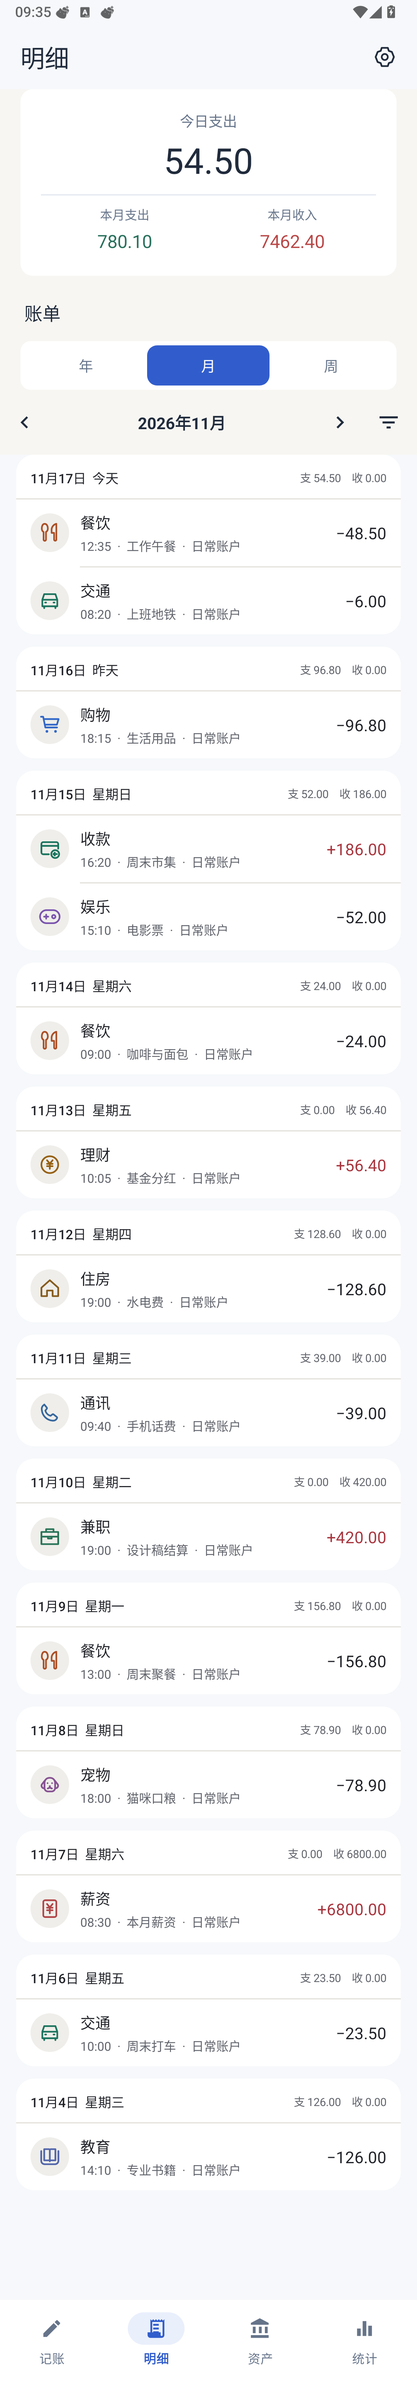
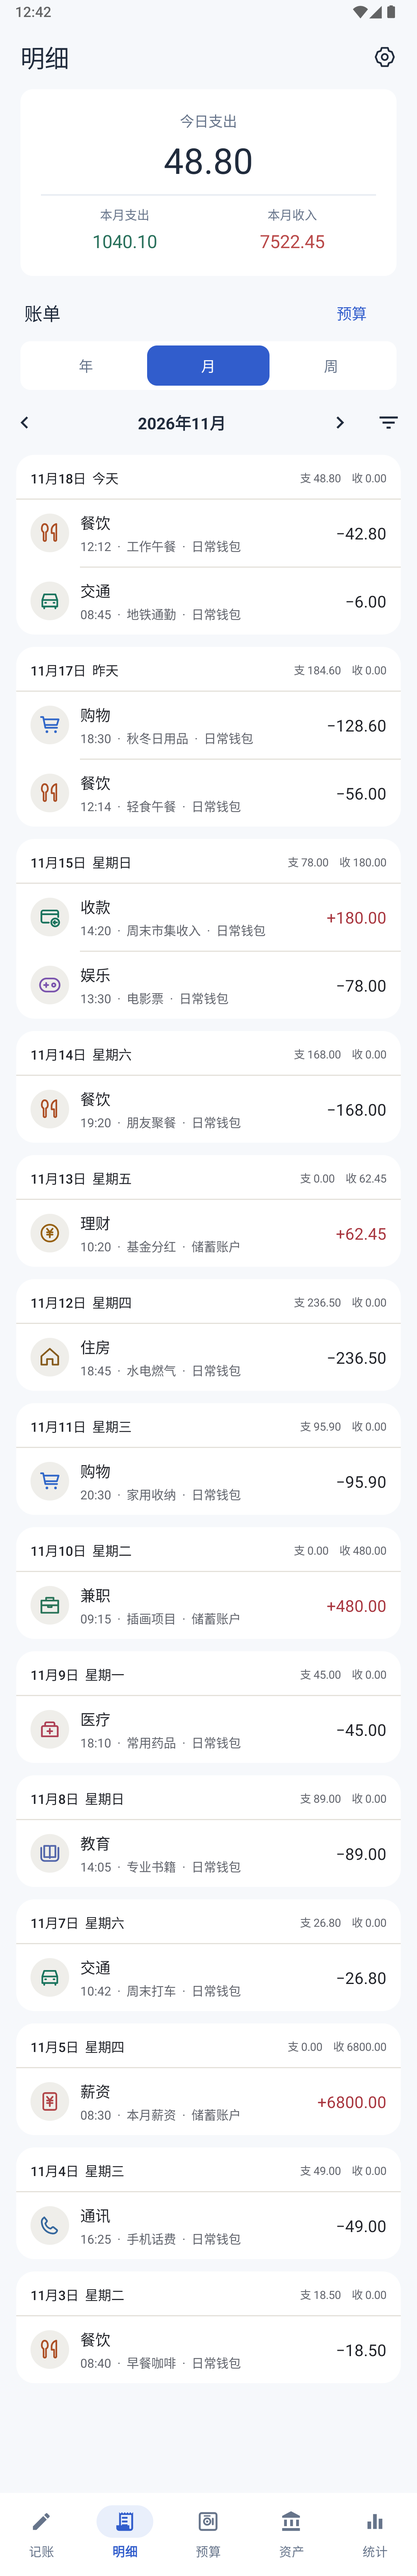
Refresh README screenshots from Tally 3.8.8-rc4

diff --git a/README.md b/README.md
@@ -54,11 +54,11 @@
 <details>
 <summary>软件截图（展开查看）</summary>
 
-截图使用合成账本。点击图片可查看原图。
+截图来自模拟器上的 Tally 3.8.8-rc4，账单均为示例数据。点击图片可查看原图。
 
 | 记一笔 | 统计（长图） | 明细（长图） |
 | :---: | :---: | :---: |
-| [<img src=".github/screenshots/record.png" alt="记一笔收入表单及内置分类" width="240">](.github/screenshots/record.png) | [<img src=".github/screenshots/stats.png" alt="统计概览、月趋势、分类构成和支出排行长图" width="240">](.github/screenshots/stats.png) | [<img src=".github/screenshots/details.png" alt="明细月总览及合成账单长图" width="240">](.github/screenshots/details.png) |
+| [<img src=".github/screenshots/record.png" alt="记一笔收入表单及内置分类" width="240">](.github/screenshots/record.png) | [<img src=".github/screenshots/stats.png" alt="统计月概览、支出趋势、收支构成和支出排行长图" width="240">](.github/screenshots/stats.png) | [<img src=".github/screenshots/details.png" alt="明细月总览及示例账单长图" width="240">](.github/screenshots/details.png) |
 
 </details>
 
